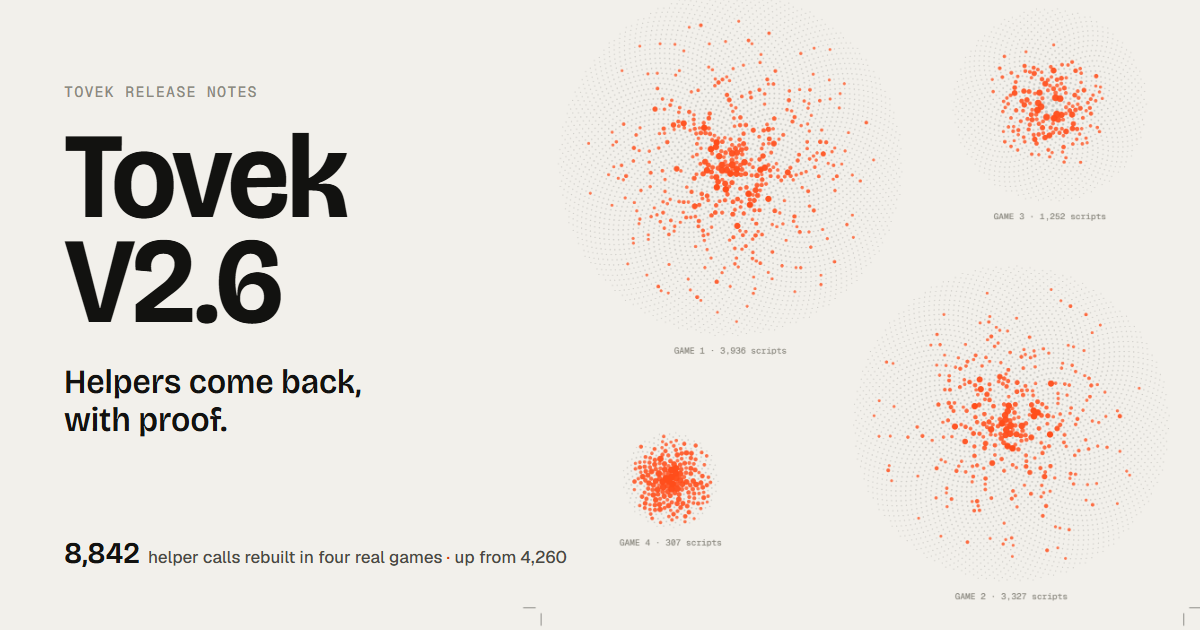
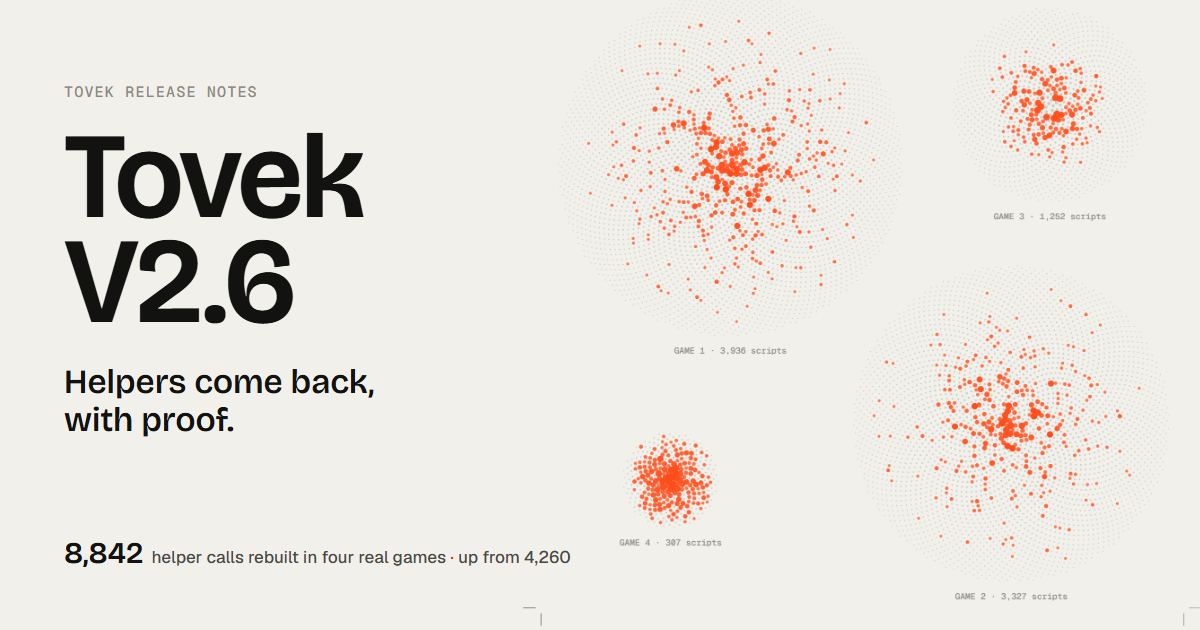
let the ruler follow the first screen's lean; keep the card's numbers with their nouns
While "Scroll to dive" leans the camera into the field, the ruler's head and
the magnification readout move with it (x1 to x2), so the scale reads as the
zoom before the first scroll. On the index card the figures' labels no longer
leave "4" or "fuzz" alone at the end of a line on phones. The social image is
retaken with the page's new title type.

Changed region(s): [[0.0617, 0.2111, 0.3083, 0.5127], [0.0617, 0.573, 0.3083, 0.6937], [0.0617, 0.8444, 0.4933, 0.9048]]

diff --git a/docs/changelog/v2.6/v26.js b/docs/changelog/v2.6/v26.js
@@ -1867,7 +1867,7 @@ function draw(t, intro, now = performance.now()) {
   const pk = peekAt(now);
   const clock = typeof window.__diveClock === 'number' ? window.__diveClock : now / 1000;
   render(main, ready ? scene : null, st, { intro: outCubic(intro), peek: pk, clock, live: mode === 'motion' && !window.__diveStill ? 1 : 0 });
-  ui(st, t);
+  ui(st, t, pk);
   if (perf) { perf.push([t, performance.now() - t0]); if (window.__diveMarks) performance.mark(`t=${t.toFixed(2)}`); }
   return ready && Math.max(st.z, PEEK_Z * pk) < 0.5 && (!st.risen || st.fin > 0.9);
 }
@@ -1911,9 +1911,10 @@ function bindCue() {
   });
 }
 
-function ui(st, t) {
-  // ruler
-  const f = st.z / 6;
+function ui(st, t, pk = 0) {
+  // ruler: it follows the camera, the lean of "Scroll to dive" included, so the scale reads as the zoom
+  const zv = Math.max(st.z, PEEK_Z * pk);
+  const f = zv / 6;
   const mobile = scene ? scene.mobile : els.stage.clientWidth <= 700;
   const len = railLen || (railLen = mobile ? els.rail.clientWidth : els.rail.clientHeight);
   els.head.style.transform = mobile ? `translate3d(${(f * len - 4.5).toFixed(1)}px,0,0)` : `translate3d(0,${(f * len - 4.5).toFixed(1)}px,0)`;
@@ -1923,7 +1924,7 @@ function ui(st, t) {
     lastLevel = level;
     els.links.forEach((a) => { if (String(a.dataset.level) === String(level)) a.setAttribute('aria-current', 'step'); else a.removeAttribute('aria-current'); });
   }
-  const mag = `×${fmt(Math.pow(10, st.z))}`;
+  const mag = `×${fmt(Math.pow(10, zv))}`;
   if (mag !== lastMag) { lastMag = mag; els.readout.textContent = mag; }
   // captions
   const cap = st.cap;

diff --git a/docs/changelog.html b/docs/changelog.html
@@ -66,9 +66,9 @@
         <h2>Tovek V2.6</h2>
         <h3 data-v="headline">Inlined helpers come back, proven by the bytecode's own line numbers and by Luau's own constant folding.</h3>
         <ul>
-          <li><span>Rebuilt helper calls, 4 games</span><b><span data-v="calls_v26">8,842</span> <small>from <span data-v="calls_v251">4,260</span></small></b></li>
-          <li><span>Wrong outputs, <span data-v="fuzz_programs">3,000</span> fuzz programs</span><b><span data-v="fuzz_v26_failed">0</span> <small>from <span data-v="fuzz_v251_failed">615</span></small></b></li>
-          <li><span>Output lines, 4 games</span><b>−<span data-v="nonblank_pct">11.6%</span></b></li>
+          <li><span>Rebuilt helper calls, 4&nbsp;games</span><b><span data-v="calls_v26">8,842</span> <small>from <span data-v="calls_v251">4,260</span></small></b></li>
+          <li><span>Wrong outputs, <span data-v="fuzz_programs">3,000</span> fuzz&nbsp;programs</span><b><span data-v="fuzz_v26_failed">0</span> <small>from <span data-v="fuzz_v251_failed">615</span></small></b></li>
+          <li><span>Output lines, 4&nbsp;games</span><b>−<span data-v="nonblank_pct">11.6%</span></b></li>
         </ul>
         <div class="foot-row"><span class="style">Read the release notes</span><span class="go" aria-hidden="true">↗</span></div>
       </div>
